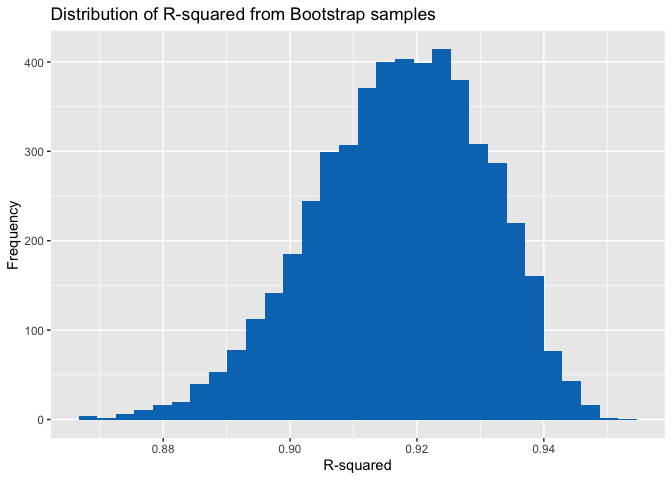
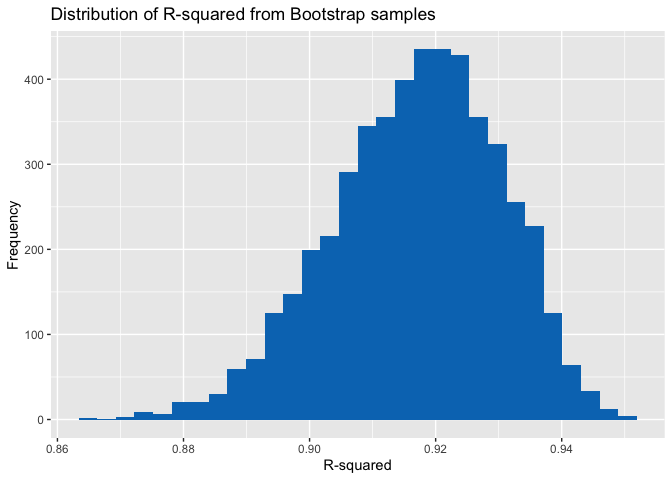
Description for Problem 3

diff --git a/p8105_hw6_rl3411.md b/p8105_hw6_rl3411.md
@@ -205,7 +205,7 @@ boot_straps =
   unnest(strap_sample)
 ```
 
-    ## Warning: There were 3417 warnings in `mutate()`.
+    ## Warning: There were 3376 warnings in `mutate()`.
     ## The first warning was:
     ## ℹ In argument: `logb1b2 = log(tmin * prcp)`.
     ## Caused by warning:
@@ -213,7 +213,7 @@ boot_straps =
     ## ℹ In argument: `logb1b2 = log(tmin * prcp)`.
     ## Caused by warning in `log()`:
     ## ! NaNs produced
-    ## ℹ Run `dplyr::last_dplyr_warnings()` to see the 3416 remaining warnings.
+    ## ℹ Run `dplyr::last_dplyr_warnings()` to see the 3375 remaining warnings.
 
 Let’s now look at the distribution of these estimates. The distribution
 of $R^2$ is slightly left skewed, with an average of around 0.92.
@@ -270,12 +270,16 @@ boot_straps |>
   knitr::kable()
 ```
 
-| variable  |   lower_CI |  upper_CI |
-|:----------|-----------:|----------:|
-| logb1b2   | -8.9079751 | -4.625800 |
-| r.squared |  0.8888106 |  0.940448 |
+| variable  |   lower_CI |   upper_CI |
+|:----------|-----------:|-----------:|
+| logb1b2   | -9.2196432 | -4.5755597 |
+| r.squared |  0.8885985 |  0.9398065 |
 
 # Problem 3
+
+Firstly, let’s load and clean the data. When cleaning, we change the
+variables `babysex`, `frace`, `mrace` and `malform` to factors. There is
+no missing data in this dataset.
 
 ``` r
 bw_df = read_csv("birthweight.csv") |> 
@@ -313,43 +317,17 @@ bw_df = read_csv("birthweight.csv") |>
     ## ℹ Use `spec()` to retrieve the full column specification for this data.
     ## ℹ Specify the column types or set `show_col_types = FALSE` to quiet this message.
 
+To build a model, let’s use the `stepAIC()` function in the `MASS`
+package to carry out model building with a stepwise regression approach
+as learned in the P8130 class, following the guidelines
+\[here\](<http://www.sthda.com/english/articles/37-model-selection-essentials-in-r/154-stepwise-regression-essentials-in-r/#>:~:text=The%20stepwise%20regression%20(or%20stepwise,model%20that%20lowers%20prediction%20error.).
+
 ``` r
 full_model = lm(bwt ~ ., data = bw_df)
 step_model = MASS::stepAIC(full_model, direction = "both", trace = F)
-summary(step_model)
 ```
 
-    ## 
-    ## Call:
-    ## lm(formula = bwt ~ babysex + bhead + blength + delwt + fincome + 
-    ##     gaweeks + mheight + mrace + parity + ppwt + smoken, data = bw_df)
-    ## 
-    ## Residuals:
-    ##      Min       1Q   Median       3Q      Max 
-    ## -1097.18  -185.52    -3.39   174.14  2353.44 
-    ## 
-    ## Coefficients:
-    ##                     Estimate Std. Error t value Pr(>|t|)    
-    ## (Intercept)       -6145.1507   141.9496 -43.291  < 2e-16 ***
-    ## babysexmale         -28.5580     8.4549  -3.378 0.000737 ***
-    ## bhead               130.7770     3.4466  37.944  < 2e-16 ***
-    ## blength              74.9471     2.0190  37.120  < 2e-16 ***
-    ## delwt                 4.1067     0.3921  10.475  < 2e-16 ***
-    ## fincome               0.3180     0.1747   1.820 0.068844 .  
-    ## gaweeks              11.5925     1.4621   7.929 2.79e-15 ***
-    ## mheight               6.5940     1.7849   3.694 0.000223 ***
-    ## mraceblack          -63.9057    42.3663  -1.508 0.131523    
-    ## mracepuerto rican   -25.7914    45.3502  -0.569 0.569578    
-    ## mracewhite           74.8868    42.3146   1.770 0.076837 .  
-    ## parity               96.3047    40.3362   2.388 0.017004 *  
-    ## ppwt                 -2.6756     0.4274  -6.261 4.20e-10 ***
-    ## smoken               -4.8434     0.5856  -8.271  < 2e-16 ***
-    ## ---
-    ## Signif. codes:  0 '***' 0.001 '**' 0.01 '*' 0.05 '.' 0.1 ' ' 1
-    ## 
-    ## Residual standard error: 272.3 on 4328 degrees of freedom
-    ## Multiple R-squared:  0.7181, Adjusted R-squared:  0.7173 
-    ## F-statistic: 848.1 on 13 and 4328 DF,  p-value: < 2.2e-16
+We can look at the estimates of the variables here.
 
 ``` r
 step_model |> 
@@ -374,6 +352,9 @@ step_model |>
 | ppwt              |    -2.676 |     0.427 |    -6.261 |   0.000 |
 | smoken            |    -4.843 |     0.586 |    -8.271 |   0.000 |
 
+And we can look at how fell the model fits here. A $R^2$ value of 0.718
+indicates a pretty decent fit.
+
 ``` r
 step_model |> 
   broom::glance() |> 
@@ -383,6 +364,11 @@ step_model |>
 | r.squared | adj.r.squared |   sigma | statistic | p.value |  df |    logLik |      AIC |      BIC |  deviance | df.residual | nobs |
 |----------:|--------------:|--------:|----------:|--------:|----:|----------:|---------:|---------:|----------:|------------:|-----:|
 |     0.718 |         0.717 | 272.333 |   848.073 |       0 |  13 | -30499.72 | 61029.44 | 61125.08 | 320986412 |        4328 | 4342 |
+
+To look at how well this model fits, let’s show a plot of model
+residuals against fitted values. We can see that for extremely low
+predicted values of birth weight, the model fails to perform as well but
+for the large cluster of points, the model fit is reasonable.
 
 ``` r
 bw_df |> 
@@ -398,12 +384,21 @@ bw_df |>
 
     ## `geom_smooth()` using method = 'gam' and formula = 'y ~ s(x, bs = "cs")'
 
-![](p8105_hw6_rl3411_files/figure-gfm/unnamed-chunk-9-1.png)<!-- -->
+![](p8105_hw6_rl3411_files/figure-gfm/unnamed-chunk-11-1.png)<!-- -->
+
+Let’s now build two more models to compare with. One using length at
+birth and gestational age as predictors and one using head
+circumference, length, sex, and all interactions between these.
 
 ``` r
 model2 = lm(bwt ~ blength + gaweeks, data = bw_df)
 model3 = lm(bwt ~ bhead*blength*babysex, data = bw_df)
+```
 
+Let’s now conduct cross-validation of 1000 samples and see how the
+models compare by looking at the RMSE.
+
+``` r
 cv_df = 
   bw_df |>
   crossv_mc(1000) |> 
@@ -433,4 +428,13 @@ cv_df |>
   labs(title = "Comparison between plots")
 ```
 
-![](p8105_hw6_rl3411_files/figure-gfm/unnamed-chunk-10-1.png)<!-- -->
+![](p8105_hw6_rl3411_files/figure-gfm/unnamed-chunk-13-1.png)<!-- -->
+
+Looking at this violin plot, we can see that the stepwise model has the
+lowest RMSE, followed by the model with interaction terms of `bhead`,
+`blength`, and `babysex`, followed by the simplest model with only
+`blength` and `gaweeks`. Here, the model with interaction terms will
+probably be best, since it only uses three variables from the dataset
+and is simple to interpret, and has a much lower RMSE than the `main`
+model. Although the stepwise model is better than the `eff_mod` model,
+it takes many more predictors and does not show as much improvement.
